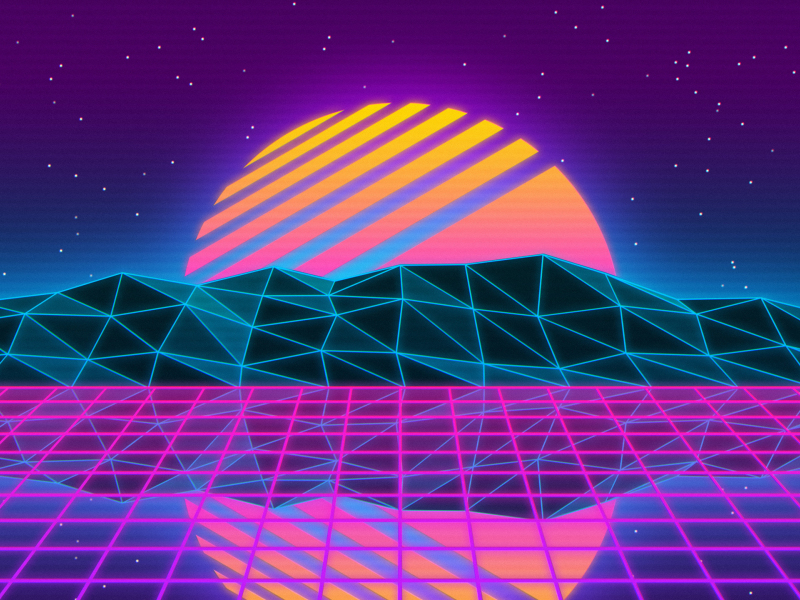
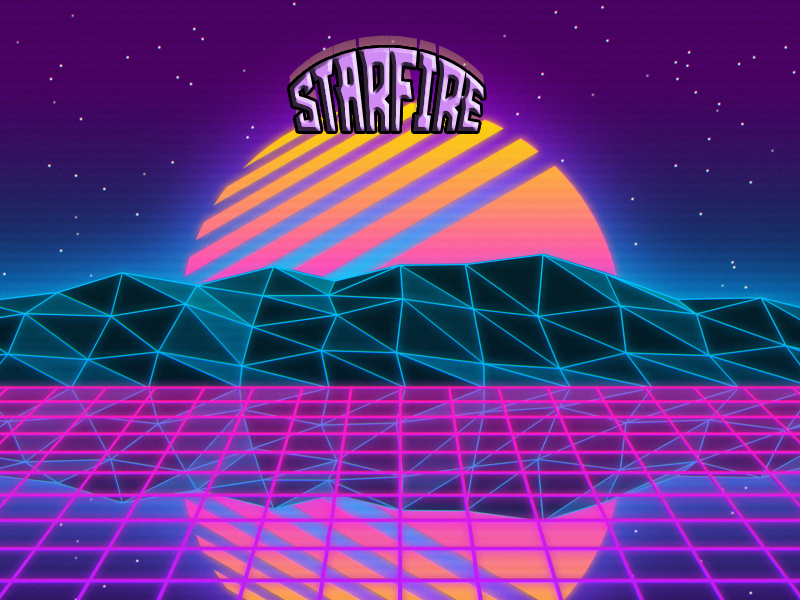
Leaderboard adjust, change wallpaper with game name in

Changed region(s): [[0.3438, 0.06, 0.625, 0.24]]

diff --git a/ClientMC/ClientMC/LeaderboardDisplay.cpp b/ClientMC/ClientMC/LeaderboardDisplay.cpp
@@ -1,43 +1,61 @@
 #include "LeaderboardDisplay.h"
 
 LeaderboardDisplay::LeaderboardDisplay(QWidget* parent)
-	:QWidget(parent)
+    : QWidget(parent)
 {
-	this->setWindowTitle("Leaderboard");
-	this->setFixedSize(800, 600);
-	m_table = new QTableWidget(5,2,this);
-	m_table->setHorizontalHeaderLabels(QStringList() << "Name" << "Points");
-	m_table->horizontalHeader()->setStretchLastSection(true);
-	m_table->verticalHeader()->setVisible(true);
-	m_table->setShowGrid(true);
+    this->setWindowTitle("Leaderboard");
+    this->setFixedSize(800, 600);
 
-	m_table->setItem(0, 0, new QTableWidgetItem("1"));
-	m_table->setItem(0, 1, new QTableWidgetItem("2"));
-	m_table->setItem(1, 0, new QTableWidgetItem("3"));
-	m_table->setItem(1, 1, new QTableWidgetItem("4"));
-	m_table->setItem(2, 0, new QTableWidgetItem("5"));
-	m_table->setItem(2, 1, new QTableWidgetItem("6"));
-	m_table->setItem(3, 0, new QTableWidgetItem("7"));
-	m_table->setItem(3, 1, new QTableWidgetItem("8"));
-	m_table->setItem(4, 0, new QTableWidgetItem("9"));
-	m_table->setItem(4, 1, new QTableWidgetItem("10"));
+    m_table = new QTableWidget(5, 2, this);
+    m_table->setHorizontalHeaderLabels(QStringList() << "Name" << "Points");
+    m_table->horizontalHeader()->setStretchLastSection(true);
+    m_table->horizontalHeader()->setSectionResizeMode(QHeaderView::Stretch);
+    m_table->verticalHeader()->setVisible(false);
+    m_table->setAlternatingRowColors(true);
+    m_table->setStyleSheet(
+        "QTableWidget { gridline-color: #D3D3D3; }"
+        "QHeaderView::section { background-color: #2E8B57; color: white; font-weight: bold; }"
+        "QTableWidget::item { selection-background-color: #ADD8E6; }"
+        "QTableWidget { border: 2px solid #8FBC8F; border-radius: 10px; }");
 
+    QFont font("Arial", 12, QFont::Bold);
+    m_table->setFont(font);
 
-	auto layout = new QVBoxLayout(this);
-	layout->addWidget(m_table);
-	layout->setContentsMargins(20, Qt::AlignVCenter, 20, 20);
-	QPushButton* backButton = new QPushButton("Back", this);
-	QVBoxLayout* layoutButton = new QVBoxLayout(this);
-	layoutButton->addWidget(backButton,0,Qt::AlignRight);
-	connect(backButton, &QPushButton::clicked, this, &LeaderboardDisplay::backButtonClicked);
-	connect(backButton, &QPushButton::clicked, this, [&]() {
-		this->hide();
+    m_table->setItem(0, 0, new QTableWidgetItem(""));
+    m_table->setItem(0, 1, new QTableWidgetItem(""));
+    m_table->setItem(1, 0, new QTableWidgetItem(""));
+    m_table->setItem(1, 1, new QTableWidgetItem(""));
+    m_table->setItem(1, 1, new QTableWidgetItem(""));
+    m_table->setItem(2, 0, new QTableWidgetItem(""));
+    m_table->setItem(2, 1, new QTableWidgetItem(""));
+    m_table->setItem(3, 0, new QTableWidgetItem(""));
+    m_table->setItem(3, 1, new QTableWidgetItem(""));
+    m_table->setItem(4, 0, new QTableWidgetItem(""));
+    m_table->setItem(4, 1, new QTableWidgetItem(""));
 
-		});
-	layout->addLayout(layoutButton);
+    for (int row = 0; row < m_table->rowCount(); ++row) {
+        for (int col = 0; col < m_table->columnCount(); ++col) {
+            QTableWidgetItem* item = m_table->item(row, col);
+            if (item) {
+                item->setFlags(item->flags() & ~Qt::ItemIsEditable);
+            }
+        }
+    }
 
-	setLayout(layout);
+    auto layout = new QVBoxLayout(this);
+    layout->addWidget(m_table);
+    layout->setContentsMargins(20, 20, 20, 20);
+
+    QPushButton* backButton = new QPushButton("Back", this);
+    backButton->setStyleSheet("QPushButton { background-color: #2E8B57; color: white; font-weight: bold; padding: 10px; }");
+    layout->addWidget(backButton, 0, Qt::AlignCenter);
+
+    connect(backButton, &QPushButton::clicked, this, &LeaderboardDisplay::backButtonClicked);
+    connect(backButton, &QPushButton::clicked, this, [&]() {
+        this->hide();
+        });
+
+    setLayout(layout);
 }
 
-LeaderboardDisplay::~LeaderboardDisplay()
-{}
+LeaderboardDisplay::~LeaderboardDisplay() {}
